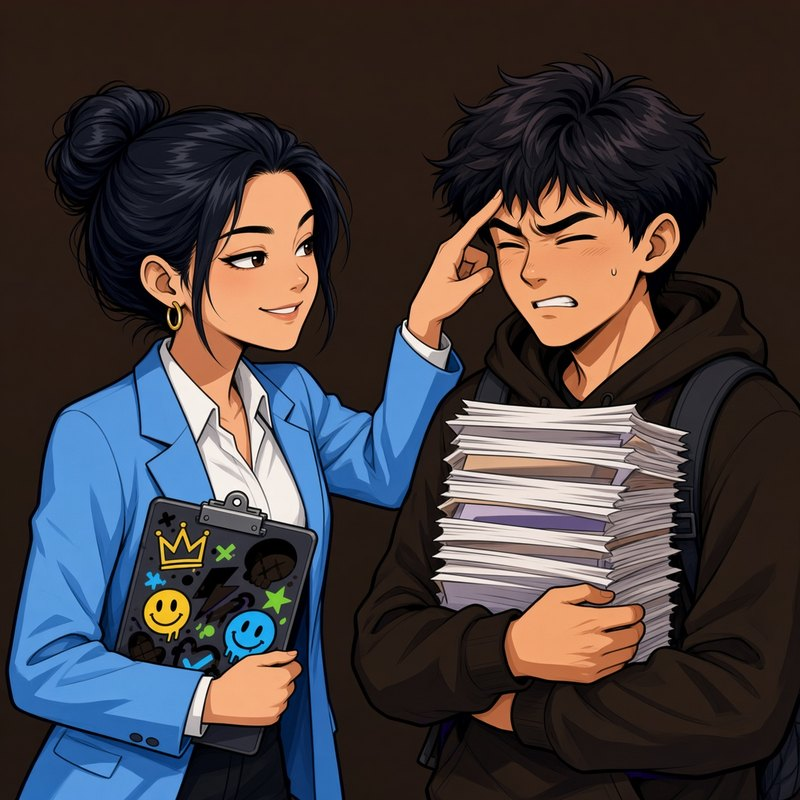
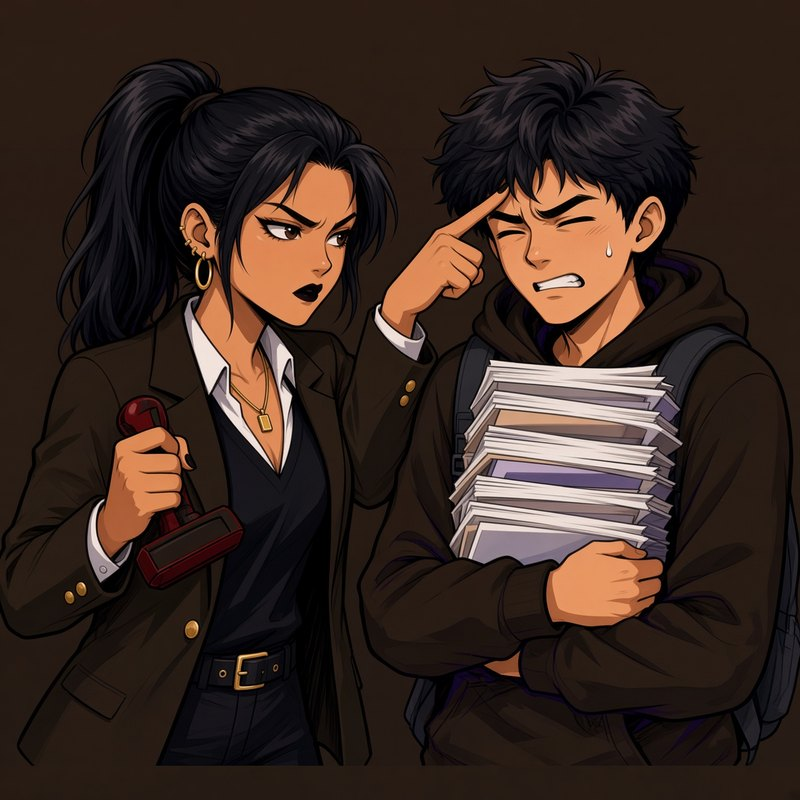
V1.21: forehead penalty is manager flicking intern

diff --git a/src/game/version.ts b/src/game/version.ts
@@ -1,2 +1,2 @@
-/** Bump this on every shipped fix. Shown as V1.20 at the bottom-right. */
-export const APP_VERSION = "1.20";
+/** Bump this on every shipped fix. Shown as V1.21 at the bottom-right. */
+export const APP_VERSION = "1.21";
